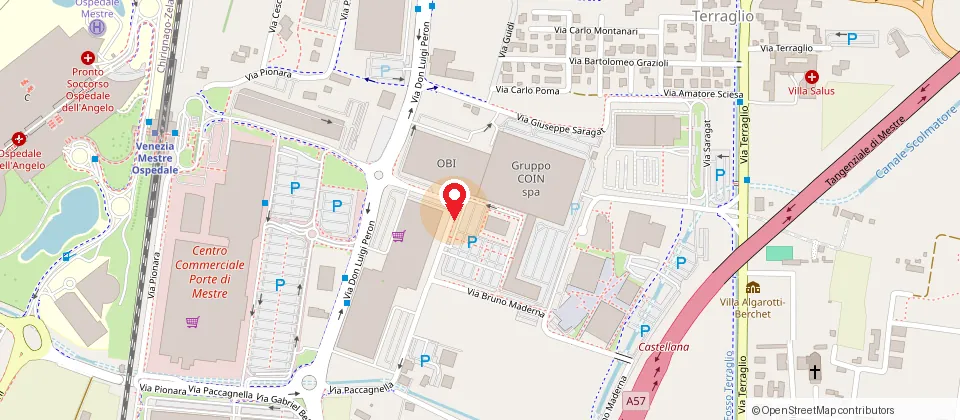
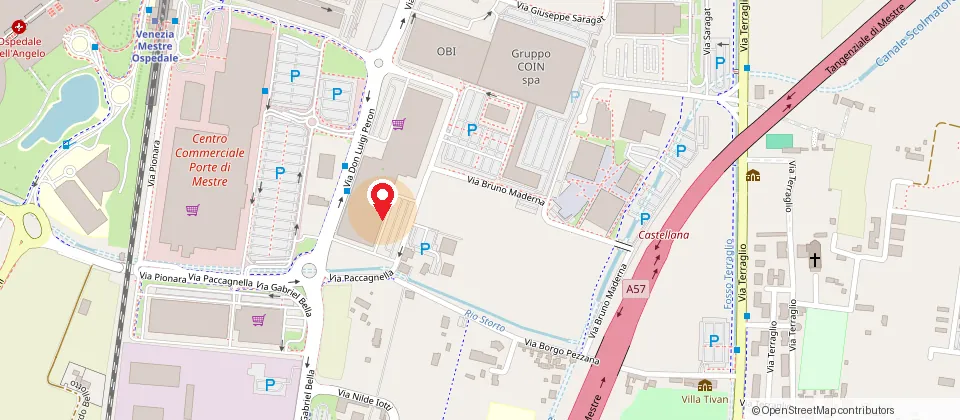
Modifiche di Tamara: eventi, animazione esterna, nuove tariffe, mappa corretta, desktop a due colonne

diff --git a/index.html b/index.html
@@ -158,6 +158,13 @@ h1,h2,h3{text-wrap:balance; margin:0; line-height:1.05}
 
 /* card */
 .tris{display:grid; grid-template-columns:repeat(auto-fit,minmax(270px,1fr)); gap:20px; margin-top:38px}
+/* cinque schede: le ultime due restano centrate invece di lasciare un buco a destra */
+@media (min-width:980px){
+  .tris{grid-template-columns:repeat(6,1fr)}
+  .tris > *{grid-column:span 2}
+  .tris > :nth-child(4){grid-column:2 / span 2}
+  .tris > :nth-child(5){grid-column:4 / span 2}
+}
 .scheda{
   position:relative; isolation:isolate;
   background:var(--crema); border:3px solid var(--verde-scuro); border-radius:var(--r); overflow:hidden;
@@ -189,10 +196,23 @@ h1,h2,h3{text-wrap:balance; margin:0; line-height:1.05}
 /* palloncini / allestimenti */
 .store{position:relative; overflow:hidden; margin-top:34px; padding:30px;
   border:3px solid var(--verde-scuro); border-radius:var(--r); box-shadow:0 5px 0 var(--verde-scuro);
-  background:var(--crema); min-height:340px; display:flex; align-items:center}
+  background:var(--crema); min-height:340px;
+  display:grid; grid-template-columns:minmax(0,1.18fr) minmax(0,.82fr); gap:32px; align-items:center}
+.store.intera{grid-template-columns:1fr}
+.store.con-grappolo .store-testo{max-width:min(560px,58%)}
 .store::before{content:''; position:absolute; inset:0; z-index:1; pointer-events:none;
   background:linear-gradient(100deg,var(--crema) 0%,var(--crema) 36%,rgba(255,253,247,.7) 50%,rgba(255,253,247,0) 64%)}
-.store-testo{max-width:min(560px,58%); position:relative; z-index:2}
+.store.con-foto::before{display:none}
+.store-testo{max-width:none; position:relative; z-index:2; order:1}
+.store .sfoglia{order:2}
+
+/* carosello di sezione */
+.sfoglia{position:relative; z-index:2; display:flex; gap:12px; overflow-x:auto; scroll-snap-type:x mandatory;
+  overscroll-behavior-x:contain; padding:2px; scrollbar-width:none; border-radius:var(--r)}
+.sfoglia::-webkit-scrollbar{display:none}
+.sfoglia img{flex:0 0 100%; min-width:100%; height:clamp(260px,34vw,440px); object-fit:cover;
+  border-radius:var(--r); border:3px solid var(--verde-scuro); background:#fff; scroll-snap-align:center;
+  user-select:none; -webkit-user-drag:none}
 .grappolo{position:absolute; right:-3%; bottom:-4%; width:68%; aspect-ratio:2/1; z-index:0}
 .pall-wrap{position:absolute; display:block; animation:galleggia ease-in-out infinite}
 @media (hover:hover){ .pall-wrap{will-change:transform} }
@@ -269,13 +289,6 @@ h1,h2,h3{text-wrap:balance; margin:0; line-height:1.05}
   font-weight:800; font-size:.92rem; color:var(--verde-scuro)}
 
 /* form */
-.galleria{display:flex; gap:14px; margin-top:34px; padding:4px 2px 16px; overflow-x:auto; overscroll-behavior-x:contain;
-  scroll-snap-type:x mandatory; -webkit-overflow-scrolling:touch; scrollbar-width:none}
-.galleria::-webkit-scrollbar{display:none}
-.galleria img{flex:0 0 clamp(250px,76vw,380px); min-width:clamp(250px,76vw,380px); height:clamp(200px,57vw,285px); object-fit:cover;
-  border-radius:var(--r); border:3px solid var(--verde-scuro); box-shadow:0 5px 0 var(--verde-scuro);
-  background:var(--crema); scroll-snap-align:center; user-select:none; -webkit-user-drag:none}
-.scorri-nota{margin:0; font-weight:700; color:#fffdf7; text-shadow:0 2px 6px rgba(61,26,0,.45); font-size:.97rem}
 .doppia{display:grid; grid-template-columns:1.05fr .95fr; gap:24px; margin-top:36px; align-items:start}
 .pannello{position:relative; isolation:isolate; overflow:hidden;
   background:var(--crema); border:3px solid var(--verde-scuro); border-radius:var(--r);
@@ -366,6 +379,8 @@ footer small{display:block; font-size:.86rem; opacity:.8; margin-top:8px}
   .store{padding:24px 22px; min-height:0; display:block}
   .store::before{display:none}
   .store-testo{max-width:none}
+  .sfoglia{margin-top:22px}
+  .sfoglia img{height:clamp(200px,52vw,260px)}
   .grappolo{position:relative; right:auto; bottom:auto; width:100%; margin-top:18px}
 }
 @media (max-width:820px){
@@ -434,6 +449,8 @@ footer small{display:block; font-size:.86rem; opacity:.8; margin-top:8px}
   <symbol id="i-sole" viewBox="0 0 24 24"><circle cx="12" cy="12" r="4"/><path d="M12 2v2M12 20v2M4.9 4.9l1.4 1.4M17.7 17.7l1.4 1.4M2 12h2M20 12h2M4.9 19.1l1.4-1.4M17.7 6.3l1.4-1.4"/></symbol>
   <symbol id="i-palloncino" viewBox="0 0 24 24"><path d="M12 2a7 7 0 0 0-7 7c0 4.5 4 8 7 8s7-3.5 7-8a7 7 0 0 0-7-7Z"/><path d="M12 17v2"/><path d="M10 22c1-1 3-1 4 0"/></symbol>
   <symbol id="i-check" viewBox="0 0 24 24"><path d="m4 12 5 5L20 6"/></symbol>
+  <symbol id="i-stella" viewBox="0 0 24 24"><path d="m12 3 2.6 5.6 6.1.8-4.5 4.2 1.2 6-5.4-3-5.4 3 1.2-6L3.3 9.4l6.1-.8L12 3Z"/></symbol>
+  <symbol id="i-faccia" viewBox="0 0 24 24"><circle cx="12" cy="12" r="9.2"/><path d="M8.5 14.2a4.5 4.5 0 0 0 7 0"/><path d="M9 9.3v.01M15 9.3v.01"/></symbol>
   <symbol id="i-tel" viewBox="0 0 24 24"><path d="M22 16.9v3a2 2 0 0 1-2.2 2 19.8 19.8 0 0 1-8.6-3.1 19.5 19.5 0 0 1-6-6A19.8 19.8 0 0 1 2.1 4.2 2 2 0 0 1 4.1 2h3a2 2 0 0 1 2 1.7c.1 1 .4 1.9.7 2.8a2 2 0 0 1-.5 2.1L8.1 9.9a16 16 0 0 0 6 6l1.3-1.3a2 2 0 0 1 2.1-.4c.9.3 1.8.6 2.8.7a2 2 0 0 1 1.7 2Z"/></symbol>
   <symbol id="i-mail" viewBox="0 0 24 24"><rect x="2" y="4" width="20" height="16" rx="3"/><path d="m3 6 9 7 9-7"/></symbol>
   <symbol id="i-chat" viewBox="0 0 24 24"><path d="M21 11.5a8.4 8.4 0 0 1-9 8.4 8.5 8.5 0 0 1-3.8-.9L3 21l1.9-5a8.4 8.4 0 0 1-.9-3.8 8.4 8.4 0 0 1 8.4-9 8.4 8.4 0 0 1 8.6 8.3Z"/></symbol>
@@ -564,10 +581,42 @@ footer small{display:block; font-size:.86rem; opacity:.8; margin-top:8px}
         </div>
         <div class="corpo">
           <ul>
-            <li><svg aria-hidden="true"><use href="#i-check"/></svg> <span>D'estate 4–14 anni, d'inverno 4–8</span></li>
+            <li><svg aria-hidden="true"><use href="#i-check"/></svg> <span>Dai 4 ai 12 anni</span></li>
             <li><svg aria-hidden="true"><use href="#i-check"/></svg> <span>Ingresso dalle 7:30, più orari di uscita</span></li>
             <li><svg aria-hidden="true"><use href="#i-check"/></svg> <span>Attività ludico-ricreative e gioco</span></li>
             <li><svg aria-hidden="true"><use href="#i-check"/></svg> <span>Quote e orari qui sotto</span></li>
+          </ul>
+        </div>
+      </article>
+
+      <article class="scheda rv" id="eventi">
+        <div class="scatto" data-bg="foto/hero.webp"></div>
+        <div class="testata t-rosso">
+          <span class="ico"><svg aria-hidden="true"><use href="#i-stella"/></svg></span>
+          <h3>Eventi</h3>
+        </div>
+        <div class="corpo">
+          <ul>
+            <li><svg aria-hidden="true"><use href="#i-check"/></svg> <span>Eventi a tema durante l'anno</span></li>
+            <li><svg aria-hidden="true"><use href="#i-check"/></svg> <span>Halloween</span></li>
+            <li><svg aria-hidden="true"><use href="#i-check"/></svg> <span>Natale</span></li>
+            <li><svg aria-hidden="true"><use href="#i-check"/></svg> <span>Seguici sui social per le date</span></li>
+          </ul>
+        </div>
+      </article>
+
+      <article class="scheda rv d1" id="animazione">
+        <div class="scatto" data-bg="foto/compleanni.webp"></div>
+        <div class="testata t-verde">
+          <span class="ico"><svg aria-hidden="true"><use href="#i-faccia"/></svg></span>
+          <h3>Animazione esterna</h3>
+        </div>
+        <div class="corpo">
+          <ul>
+            <li><svg aria-hidden="true"><use href="#i-check"/></svg> <span>Truccabimbi</span></li>
+            <li><svg aria-hidden="true"><use href="#i-check"/></svg> <span>Caccia al tesoro</span></li>
+            <li><svg aria-hidden="true"><use href="#i-check"/></svg> <span>Bolle di sapone</span></li>
+            <li><svg aria-hidden="true"><use href="#i-check"/></svg> <span>Mascotte</span></li>
           </ul>
         </div>
       </article>
@@ -575,8 +624,11 @@ footer small{display:block; font-size:.86rem; opacity:.8; margin-top:8px}
 
     <h2 class="rv" style="margin-top:64px">La festa di compleanno</h2>
 
-    <div class="store rv">
-      <div class="scatto" data-bg="foto/hero.webp"></div>
+    <div class="store con-foto rv">
+      <div class="sfoglia" tabindex="0" role="group" aria-label="Foto delle feste, scorri in orizzontale">
+        <img data-src="foto/compleanni.webp" width="760" height="570" decoding="async" alt="Una sala allestita per una festa di compleanno" draggable="false">
+        <img data-src="foto/hero.webp" width="760" height="570" decoding="async" alt="La sala giochi del GiumaPark" draggable="false">
+      </div>
       <div class="store-testo">
         <div class="testata t-rosso" style="border:0; padding:0 0 14px">
           <span class="ico"><svg aria-hidden="true"><use href="#i-torta"/></svg></span>
@@ -603,6 +655,7 @@ footer small{display:block; font-size:.86rem; opacity:.8; margin-top:8px}
           <tr><td>Oltre il 15° bambino <span>nei giorni feriali</span></td><td><b>5€</b></td></tr>
           <tr><td>Oltre il 15° bambino <span>sabato e domenica</span></td><td><b>8€</b></td></tr>
           <tr><td>Ora di permanenza in più</td><td><b>75€</b></td></tr>
+          <tr><td>Uso esclusivo del locale <span>dal lunedì al venerdì 16:00 – 20:00 oppure 20:00 – 23:00 · sabato e domenica mattina 9:00 – 13:00</span></td><td><b>da 450€</b></td></tr>
         </table>
 
         <table class="tariffe">
@@ -617,7 +670,8 @@ footer small{display:block; font-size:.86rem; opacity:.8; margin-top:8px}
         <p class="extra-tariffe">
           Prenoti con una <b>caparra di 50€</b>, in sede o con bonifico · Puoi entrare <b>mezz'ora prima</b> per preparare e restare <b>mezz'ora dopo</b> per sistemare<br>
           Per i bambini servono i <b>calzini antiscivolo</b>, per gli adulti i <b>copriscarpe</b>: sono obbligatori in tutto il parco.<br>
-          Quando ci sono più feste in contemporanea, l'età indicata nella prima prenotazione stabilisce la fascia d'età di tutte le altre sale: così l'organizzazione resta adeguata ai bambini.
+          Quando ci sono più feste in contemporanea, l'età indicata nella prima prenotazione stabilisce la fascia d'età di tutte le altre sale: così l'organizzazione resta adeguata ai bambini.<br>
+          Il locale non è solo per i bambini: lo affittiamo anche per <b>compleanni di grandi, diciottesimi, anniversari, giri pizza e feste private</b>.
         </p>
 
         <div class="store-azioni">
@@ -627,7 +681,7 @@ footer small{display:block; font-size:.86rem; opacity:.8; margin-top:8px}
     </div>
 
     <h2 class="rv" style="margin-top:64px">Palloncini e allestimenti</h2>
-    <div class="store rv">
+    <div class="store intera con-grappolo rv">
       <div class="store-testo">
         <div class="testata t-rosso" style="border:0; padding:0 0 14px">
           <span class="ico"><svg aria-hidden="true"><use href="#i-palloncino"/></svg></span>
@@ -665,8 +719,10 @@ footer small{display:block; font-size:.86rem; opacity:.8; margin-top:8px}
 
     <h2 class="rv" style="margin-top:64px">Noleggio gonfiabili</h2>
 
-    <div class="store rv">
-      <div class="scatto" data-bg="foto/compleanni.webp"></div>
+    <div class="store con-foto rv">
+      <div class="sfoglia" tabindex="0" role="group" aria-label="Foto dei gonfiabili, scorri in orizzontale">
+        <img data-src="foto/compleanni.webp" width="760" height="570" decoding="async" alt="Un gonfiabile montato nella sala del parco" draggable="false">
+      </div>
       <div class="store-testo">
         <div class="testata t-azzurro" style="border:0; padding:0 0 14px">
           <span class="ico"><svg aria-hidden="true"><use href="#i-gonfiabile"/></svg></span>
@@ -682,9 +738,9 @@ footer small{display:block; font-size:.86rem; opacity:.8; margin-top:8px}
         </ul>
         <table class="tariffe">
           <caption>Noleggio a giornata</caption>
-          <tr><td>Piccolo <span>scivolo e percorso gioco &#183; 5,30 &#215; 2,50 &#215; 2,15 m</span></td><td><b>150€</b></td></tr>
-          <tr><td>Medio <span>scivolo e area gioco &#183; 3,70 &#215; 2,70 &#215; 2,20 m</span></td><td><b>150€</b></td></tr>
-          <tr><td>Grande <span>maxi scivolo a 3 corsie &#183; 9,00 &#215; 4,00 &#215; 5,50 m</span></td><td><b>250€</b></td></tr>
+          <tr><td>Piccolo <span>scivolo e percorso gioco &#183; 5,30 &#215; 2,50 &#215; 2,15 m</span></td><td><b>da 150€</b></td></tr>
+          <tr><td>Medio <span>scivolo e area gioco &#183; 3,70 &#215; 2,70 &#215; 2,20 m</span></td><td><b>da 150€</b></td></tr>
+          <tr><td>Grande <span>maxi scivolo a 3 corsie &#183; 9,00 &#215; 4,00 &#215; 5,50 m</span></td><td><b>da 250€</b></td></tr>
         </table>
         <p class="extra-tariffe">
           I prezzi non comprendono <b>consegna e montaggio</b>: dicci dove e quando, ti facciamo il preventivo completo.
@@ -698,8 +754,11 @@ footer small{display:block; font-size:.86rem; opacity:.8; margin-top:8px}
 
     <h2 class="rv" id="estate" style="margin-top:64px">Centri estivi e invernali</h2>
 
-    <div class="store rv">
-      <div class="scatto" data-bg="foto/estivi.webp"></div>
+    <div class="store con-foto rv">
+      <div class="sfoglia" tabindex="0" role="group" aria-label="Foto dei centri, scorri in orizzontale">
+        <img data-src="foto/estivi.webp" width="760" height="570" decoding="async" alt="I bambini del centro estivo" draggable="false">
+        <img data-src="foto/playground.webp" width="760" height="570" decoding="async" alt="Il playground con scivoli e vasca di palline" draggable="false">
+      </div>
       <div class="store-testo">
         <div class="testata t-azzurro" style="border:0; padding:0 0 14px">
           <span class="ico"><svg aria-hidden="true"><use href="#i-sole"/></svg></span>
@@ -707,8 +766,8 @@ footer small{display:block; font-size:.86rem; opacity:.8; margin-top:8px}
         </div>
         <p>D'estate e nei giorni in cui la scuola è chiusa i bambini passano la giornata con noi, tra attività ludico-ricreative e gioco libero.</p>
         <ul>
-          <li><svg aria-hidden="true"><use href="#i-check"/></svg> <span>Centro estivo: da <b>4 a 14 anni</b>, a settimana</span></li>
-          <li><svg aria-hidden="true"><use href="#i-check"/></svg> <span>Centro invernale: da <b>4 a 8 anni</b>, a giornata</span></li>
+          <li><svg aria-hidden="true"><use href="#i-check"/></svg> <span>Dai <b>4 ai 12 anni</b></span></li>
+          <li><svg aria-hidden="true"><use href="#i-check"/></svg> <span>Centro estivo a settimana, centro invernale a giornata</span></li>
           <li><svg aria-hidden="true"><use href="#i-check"/></svg> <span>Ingresso dalle 7:30</span></li>
         </ul>
 
@@ -726,14 +785,17 @@ footer small{display:block; font-size:.86rem; opacity:.8; margin-top:8px}
 
         <table class="tariffe">
           <caption>Centro invernale &#8212; tariffe giornaliere</caption>
-          <tr><td>Entrata 7:30 – 9:00, uscita <b>11:30 – 12:30</b></td><td><b>18€</b></td></tr>
-          <tr><td>Entrata 7:30 – 9:00, uscita <b>16:00 – 17:00</b></td><td><b>25€</b></td></tr>
+          <tr><td>Entrata 7:30 – 9:00, uscita <b>11:30 – 12:00</b></td><td><b>20€</b></td></tr>
+          <tr><td>Entrata 7:30 – 9:00, uscita <b>16:00</b></td><td><b>25€</b></td></tr>
+          <tr><td>Entrata 7:30 – 9:00, uscita <b>17:30</b></td><td><b>30€</b></td></tr>
         </table>
 
         <p class="extra-tariffe">
-          Nel centro invernale <b>pranzo e merenda sono esclusi</b> · <b>&#8722;10%</b> dal secondo figlio<br>
+          Nel centro invernale <b>pranzo e merenda sono esclusi</b>.<br>
+          <b>&#8722;5%</b> dal secondo figlio.<br>
           I centri sono organizzati dall'associazione &#171;e..state con noi&#187; presso il GiumaPark.<br>
-          Le date e le attività cambiano ogni anno: scrivici per il calendario aggiornato.
+          Le date, attività e quote economiche sono indicative e potranno subire delle variazioni di anno
+          in anno, in base alla programmazione e alle esigenze organizzative: scrivici per il calendario aggiornato.
         </p>
 
         <div class="store-azioni">
@@ -742,22 +804,6 @@ footer small{display:block; font-size:.86rem; opacity:.8; margin-top:8px}
       </div>
     </div>
 
-    <h2 class="rv" style="margin-top:64px">Uno sguardo dentro</h2>
-    <p class="scorri-nota rv">Scorri le foto &#8594; &nbsp;·&nbsp; su <a href="https://www.instagram.com/giumapark/" target="_blank" rel="noopener" style="color:#fffdf7">@giumapark</a> ne trovi molte altre</p>
-    <div class="galleria rv" tabindex="0" role="group" aria-label="Foto del parco, scorri in orizzontale">
-      <img data-src="foto/playground.webp" width="760" height="570" decoding="async" alt="Il playground con scivoli e strutture da arrampicata" draggable="false">
-      <img data-src="foto/hero.webp" width="1200" height="800" decoding="async" alt="La sala giochi del GiumaPark" draggable="false">
-      <img data-src="foto/compleanni.webp" width="760" height="570" decoding="async" alt="Una delle sale per le feste di compleanno" draggable="false">
-      <img data-src="foto/estivi.webp" width="760" height="570" decoding="async" alt="I bambini del centro estivo" draggable="false">
-      <img data-src="foto/parco.webp" width="760" height="570" decoding="async" alt="L'ingresso del parco" draggable="false">
-    </div>
-    <noscript><div class="galleria rv">
-      <img src="foto/playground.webp" width="760" height="570" loading="lazy" decoding="async" alt="Il playground con scivoli e strutture da arrampicata" draggable="false">
-      <img src="foto/hero.webp" width="1200" height="800" loading="lazy" decoding="async" alt="La sala giochi del GiumaPark" draggable="false">
-      <img src="foto/compleanni.webp" width="760" height="570" loading="lazy" decoding="async" alt="Una delle sale per le feste di compleanno" draggable="false">
-      <img src="foto/estivi.webp" width="760" height="570" loading="lazy" decoding="async" alt="I bambini del centro estivo" draggable="false">
-      <img src="foto/parco.webp" width="760" height="570" loading="lazy" decoding="async" alt="L'ingresso del parco" draggable="false">
-    </div></noscript>
   </div>
 </section>
 
@@ -795,6 +841,9 @@ footer small{display:block; font-size:.86rem; opacity:.8; margin-top:8px}
               <option>Festa di compleanno</option>
               <option>Centro estivo o invernale</option>
               <option>Animazione per la festa</option>
+              <option>Animazione esterna</option>
+              <option>Uso esclusivo del locale</option>
+              <option>Evento a tema</option>
               <option>Evento privato</option>
               <option>Noleggio gonfiabili</option>
           <option>Allestimento palloncini</option>
@@ -859,7 +908,7 @@ footer small{display:block; font-size:.86rem; opacity:.8; margin-top:8px}
         <div class="mappa">
           <img src="mappa-giumapark.webp" width="960" height="420" loading="lazy" decoding="async"
                alt="Mappa della zona: il parco si trova in Via Don Federico Tosatto 5, a Mestre, vicino al centro commerciale Porte di Mestre">
-          <a class="mappa-indicazioni" href="https://www.google.com/maps/search/?api=1&amp;query=Via+Don+Federico+Tosatto+5,+30174+Mestre+VE"
+          <a class="mappa-indicazioni" href="https://www.google.com/maps/dir/?api=1&amp;destination=GiumaPark%2C+Via+Don+Federico+Tosatto+5%2C+30174+Venezia+VE"
              target="_blank" rel="noopener">
             <svg aria-hidden="true"><use href="#i-pin"/></svg> Come arrivare
           </a>
@@ -1278,25 +1327,27 @@ footer small{display:block; font-size:.86rem; opacity:.8; margin-top:8px}
     });
   });
 
-  /* le foto del carosello arrivano solo quando ci si avvicina */
-  var galleria = document.querySelector('.galleria');
-  if (galleria){
-    var caricaGalleria = function(){
-      galleria.querySelectorAll('img[data-src]').forEach(function(i){
-        i.src = i.getAttribute('data-src'); i.removeAttribute('data-src');
+  /* le foto dei caroselli arrivano solo quando ci si avvicina */
+  var caroselli = document.querySelectorAll('.sfoglia');
+  function riempi(box){
+    box.querySelectorAll('img[data-src]').forEach(function(i){
+      i.src = i.getAttribute('data-src'); i.removeAttribute('data-src');
+    });
+  }
+  if ('IntersectionObserver' in window){
+    var og = new IntersectionObserver(function(voci){
+      voci.forEach(function(v){
+        if (v.isIntersecting){ riempi(v.target); og.unobserve(v.target); }
       });
-    };
-    if ('IntersectionObserver' in window){
-      var og = new IntersectionObserver(function(voci){
-        if (voci.some(function(v){ return v.isIntersecting; })){ caricaGalleria(); og.disconnect(); }
-      }, {rootMargin: '500px 0px'});
-      og.observe(galleria);
-      addEventListener('load', function(){
-        if (galleria.getBoundingClientRect().top < innerHeight + 500) caricaGalleria();
+    }, {rootMargin: '500px 0px'});
+    caroselli.forEach(function(c){ og.observe(c); });
+    addEventListener('load', function(){
+      caroselli.forEach(function(c){
+        if (c.getBoundingClientRect().top < innerHeight + 500) riempi(c);
       });
-    } else {
-      caricaGalleria();
-    }
+    });
+  } else {
+    caroselli.forEach(riempi);
   }
 
   /* ---------- palloncini della vetrina: si prendono e si spostano (solo col mouse) ---------- */
